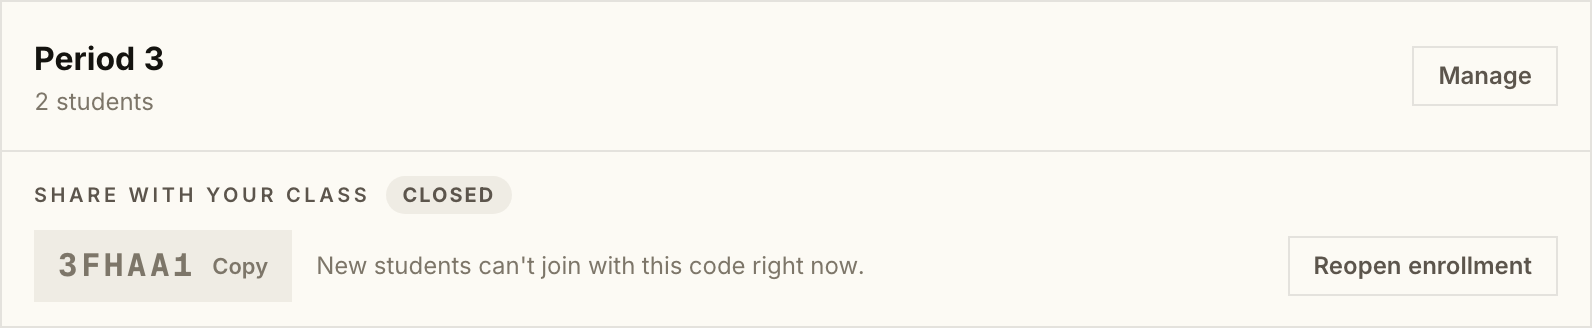
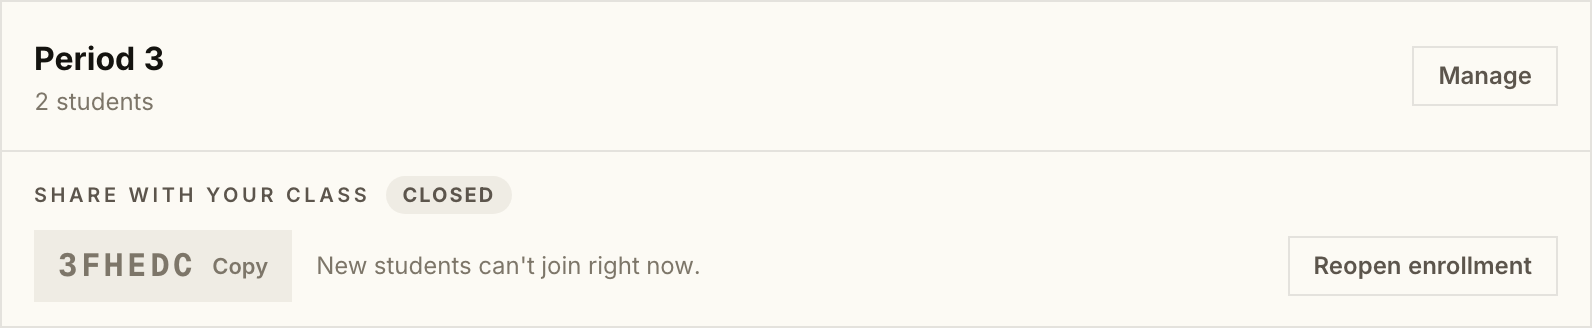
fix(sections): expand/contract the migration, and close every door at once
Review follow-ups on the enrollment_open change.

Migration is now expand-only. Railway overlaps the old and new
containers on deploy — the new one runs `alembic upgrade head` at boot
while the old one still serves — and SQLAlchemy emits explicit column
lists, so dropping `join_code_expires_at` in this revision would 500
every section read on the old container for the length of the overlap.
The column is unmapped now, which is the safe half: new code never
selects it, old code still finds it. A follow-up migration drops it
once this revision is fully rolled out.

Closing enrollment now blocks pending email invites too. It only
gated the join code, so a teacher who closed the door still had one
standing open: any student holding an emailed invite could walk in.
The check moved into `_load_section_invite`, which all three invite
paths share — validating the emailed link, signing up through it, and
claiming it while already logged in.

That makes "This class isn't accepting new students" true everywhere,
so the section card drops its narrower "with this code" wording.

Also renames a test that promised a time-travel assertion it never
made, and adds coverage for the invite paths.

Claude-Session: https://claude.ai/code/session_01N4FWkYJEnDJkjUpt49SLF5

Changed region(s): [[0.3693, 0.7622, 0.554, 0.8537], [0.0616, 0.7622, 0.1231, 0.8537]]

diff --git a/web/src/components/school/teacher/sections-tab.tsx b/web/src/components/school/teacher/sections-tab.tsx
@@ -423,7 +423,7 @@ function SectionCard({
             <p className="text-xs text-text-muted">
               {enrollmentOpen
                 ? "Students enter this code to join."
-                : "New students can't join with this code right now."}
+                : "New students can't join right now."}
             </p>
             <button
               type="button"

diff --git a/tests/test_section_enrollment_open.py b/tests/test_section_enrollment_open.py
@@ -13,11 +13,13 @@ import uuid
 
 import pytest
 from httpx import AsyncClient
+from sqlalchemy import select
 
 from api.core.auth import create_access_token, hash_password
 from api.database import get_session_factory
 from api.models.course import Course, CourseTeacher
 from api.models.section import Section
+from api.models.section_invite import SectionInvite
 from api.models.user import User
 
 from .conftest import auth_headers
@@ -74,11 +76,11 @@ def _patch_url(fx: dict[str, str]) -> str:
 
 
 @pytest.mark.asyncio
-async def test_new_section_is_open_and_code_never_expires(
+async def test_new_section_is_open_and_its_code_admits_students(
     client: AsyncClient, open_section: dict[str, str],
 ) -> None:
-    """The regression the timer caused: a code that works today must
-    still work with no teacher action in between."""
+    """A fresh section is open, exposes no expiry field, and its code
+    admits a student — the shape the 7-day timer used to break."""
     r = await client.get(
         f"/v1/teacher/courses/{open_section['course_id']}/sections",
         headers=auth_headers(open_section["teacher_token"]),
@@ -167,3 +169,49 @@ async def test_rename_does_not_disturb_enrollment_state(
     assert detail.status_code == 200, detail.text
     assert detail.json()["name"] == "Period 2"
     assert detail.json()["enrollment_open"] is False
+
+
+@pytest.mark.asyncio
+async def test_closed_enrollment_blocks_pending_email_invites(
+    client: AsyncClient, open_section: dict[str, str],
+) -> None:
+    """Closing enrollment has to shut every door, not just the code.
+    A pending emailed invite is still a way in, so the shared invite
+    loader gates on the same flag — which covers validating the link,
+    signing up through it, and claiming it while already logged in."""
+    teacher = auth_headers(open_section["teacher_token"])
+    invited_email = f"eo_invited_{open_section['tag'].lower()}@t.com"
+
+    invited = await client.post(
+        f"/v1/teacher/courses/{open_section['course_id']}"
+        f"/sections/{open_section['section_id']}/invites",
+        headers=teacher, json={"email": invited_email},
+    )
+    assert invited.status_code == 200, invited.text
+    # The serializer deliberately withholds the token (it's the secret in
+    # the emailed link), so read it back from the row.
+    async with get_session_factory()() as s:
+        token = (await s.execute(
+            select(SectionInvite.token).where(SectionInvite.email == invited_email)
+        )).scalar_one()
+
+    # Still open: the link validates.
+    ok = await client.get(f"/v1/auth/invite/section/{token}")
+    assert ok.status_code == 200, ok.text
+
+    await client.patch(
+        _patch_url(open_section), headers=teacher, json={"enrollment_open": False},
+    )
+
+    blocked = await client.get(f"/v1/auth/invite/section/{token}")
+    assert blocked.status_code == 403, blocked.text
+    assert "accepting new students" in blocked.json()["detail"]
+
+    signup = await client.post(REGISTER_URL, json={
+        "email": invited_email,
+        "password": "StrongPass1",
+        "name": "Invited But Late",
+        "grade_level": 9,
+        "section_invite_token": token,
+    })
+    assert signup.status_code == 403, signup.text

diff --git a/api/alembic/versions/cg1000076_add_section_enrollment_open.py b/api/alembic/versions/cg1000076_add_section_enrollment_open.py
@@ -1,0 +1,51 @@
+"""add sections.enrollment_open (phase 1 of replacing join_code_expires_at)
+
+Revision ID: cg1000076
+Revises: cf1000075
+Create Date: 2026-08-23 00:00:00.000000
+
+Join codes expired 7 days after they were minted and nothing ever
+extended them. A class runs a semester, so every section older than a
+week was sitting on a dead code — while the teacher UI kept displaying
+that code as live, with no expiry rendered anywhere. Teachers read the
+resulting "Join code expired" as the feature being broken.
+
+Enrollment is a state the teacher controls, not a countdown. This adds
+`enrollment_open` (bool, NOT NULL, server_default TRUE). The server
+default backfills every existing row in the same statement — that is
+the repair: every section currently stuck behind an expired code starts
+admitting students again.
+
+**Expand/contract — `join_code_expires_at` is deliberately NOT dropped
+here.** Railway overlaps the old and new containers during a deploy
+(the new one runs `alembic upgrade head` at boot while the old one is
+still serving), and SQLAlchemy emits explicit column lists — so
+dropping the column in this migration would 500 every section read on
+the old container for the length of the overlap. The column is unmapped
+as of this revision: new code never selects it, old code still finds it
+in the DB, and nothing writes anything that matters to it. A follow-up
+migration drops it once this revision is fully rolled out.
+"""
+from collections.abc import Sequence
+
+import sqlalchemy as sa
+from alembic import op
+
+revision: str = "cg1000076"
+down_revision: str | None = "cf1000075"
+branch_labels: str | Sequence[str] | None = None
+depends_on: str | Sequence[str] | None = None
+
+
+def upgrade() -> None:
+    op.add_column(
+        "sections",
+        sa.Column(
+            "enrollment_open", sa.Boolean(),
+            nullable=False, server_default=sa.true(),
+        ),
+    )
+
+
+def downgrade() -> None:
+    op.drop_column("sections", "enrollment_open")

diff --git a/api/routes/auth.py b/api/routes/auth.py
@@ -417,6 +417,11 @@ async def _load_section_invite(
     )).scalar_one_or_none()
     if not section:
         raise HTTPException(status_code=status.HTTP_410_GONE, detail="Section no longer exists")
+    if not section.enrollment_open:
+        raise HTTPException(
+            status_code=status.HTTP_403_FORBIDDEN,
+            detail="This class isn't accepting new students. Ask your teacher to reopen it.",
+        )
     course = (await db.execute(
         select(Course).where(Course.id == section.course_id)
     )).scalar_one_or_none()
